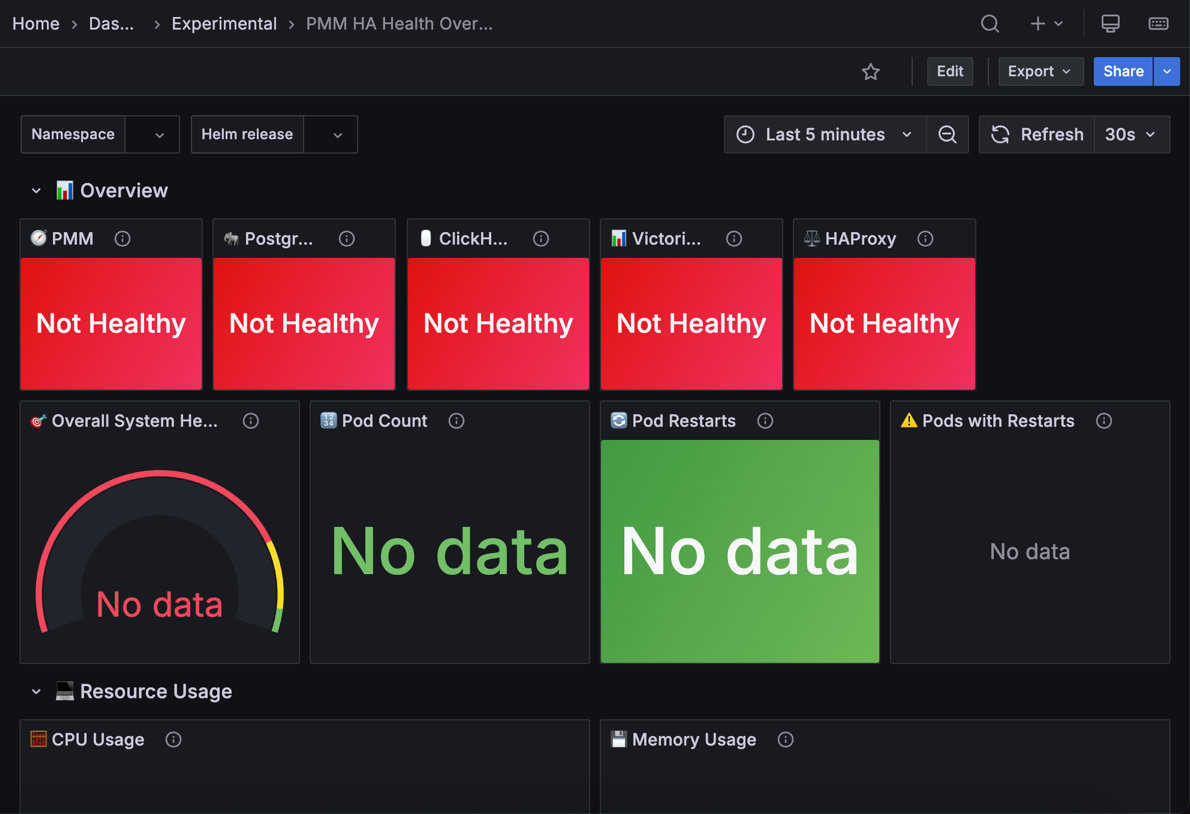
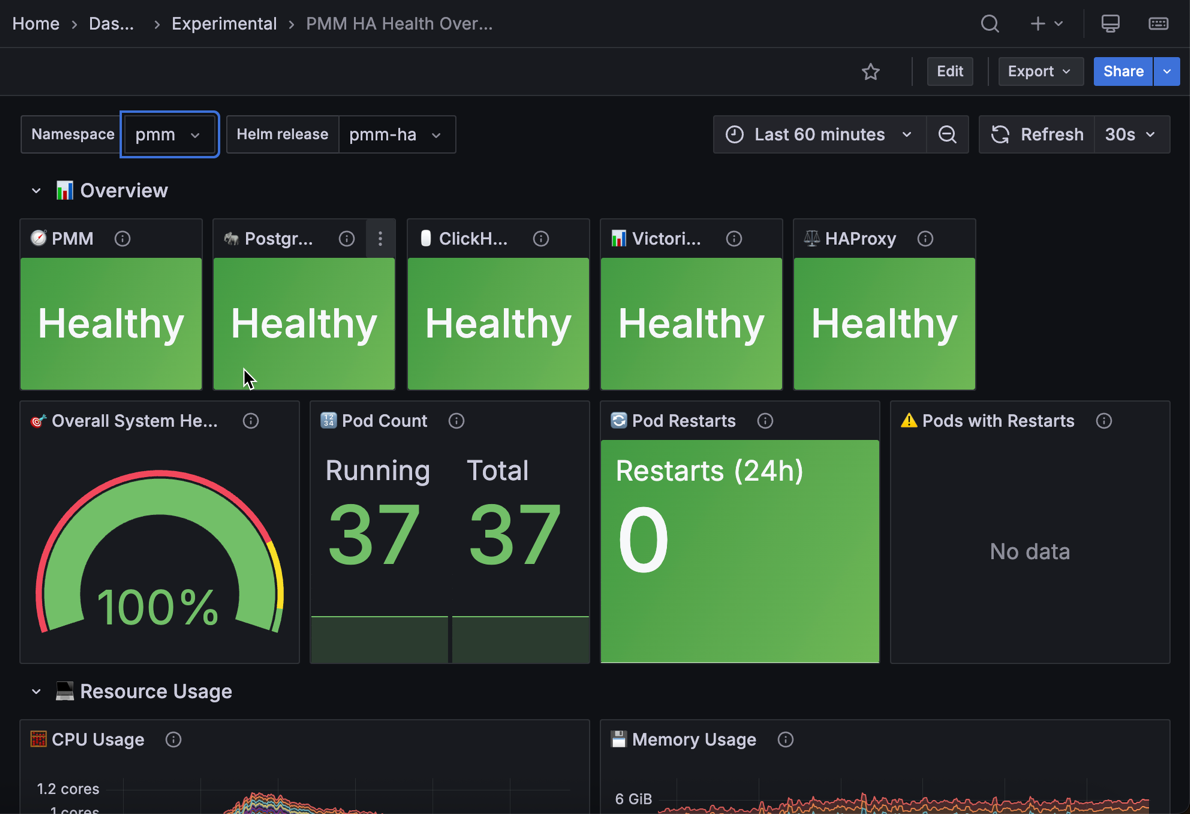
feedback from Nailya

diff --git a/documentation/docs/install-pmm/HA-clustered.md b/documentation/docs/install-pmm/HA-clustered.md
@@ -347,7 +347,7 @@ Installs monitoring infrastructure:
 
     === "Using YAML file"
 
-        Create `pmm-secret.yaml`:
+        1. Create `pmm-secret.yaml`:
 
         ```yaml
         apiVersion: v1
@@ -366,7 +366,7 @@ Installs monitoring infrastructure:
           GF_PASSWORD: "your-grafana-password"
         ```
 
-        Apply it:
+        2. Apply it:
 
         ```sh
         kubectl apply -f pmm-secret.yaml
@@ -382,35 +382,40 @@ Installs monitoring infrastructure:
 
     === "Custom configuration"
 
-        Create a `values.yaml` file:
+        Use custom configuration when you need to adjust resource limits, storage sizes, replica counts, or service types beyond the defaults.
+        
+        This approach gives you full control over your PMM HA deployment settings.
+        {.power-number}
 
-        ```yaml
-        # Example custom values
-        replicas: 3  # Number of PMM server replicas
+        1. Create a `values.yaml` file:
 
-        haproxy:
-          service:
-            type: LoadBalancer  # Change to LoadBalancer for external access
+          ```yaml
+          # Example custom values
+          replicas: 3  # Number of PMM server replicas
 
-        storage:
-          size: 100Gi  # Adjust storage size as needed
+          haproxy:
+            service:
+              type: LoadBalancer  # Change to LoadBalancer for external access
 
-        pmmResources:
-          requests:
-            cpu: "2"
-            memory: "4Gi"
-          limits:
-            cpu: "4"
-            memory: "8Gi"
-        ```
+          storage:
+            size: 100Gi  # Adjust storage size as needed
 
-        Install with custom values:
+          pmmResources:
+            requests:
+              cpu: "2"
+              memory: "4Gi"
+            limits:
+              cpu: "4"
+              memory: "8Gi"
+          ```
 
-        ```sh
-        helm install pmm-ha percona/pmm-ha --namespace pmm -f values.yaml
-        ```
+       2. Install with custom values:
 
-        ### Step 6: Verify installation
+          ```sh
+          helm install pmm-ha percona/pmm-ha --namespace pmm -f values.yaml
+          ```
+
+    ### Step 6: Verify installation
 
         ```sh
         # Check PMM server pods

diff --git a/documentation/docs/install-pmm/HA-docker.md b/documentation/docs/install-pmm/HA-docker.md
@@ -89,7 +89,6 @@ docker run -d \
   --name pmm-server \
   --restart=always \
   -p 443:8443/tcp \
-  -p 80:80/tcp \
   -v pmm-data:/srv \
   -e DISABLE_UPDATES=true \
   -e DISABLE_TELEMETRY=true \
@@ -101,7 +100,6 @@ docker run -d \
 
 - `--restart=always`: Ensures automatic container restart after failures or reboots
 - `-p 443:8443`: Exposes HTTPS port for secure web access
-- `-p 80:80`: Exposes HTTP port (automatically redirects to HTTPS)
 - `-v pmm-data:/srv`: Persists PMM data across container restarts
 - `-e DISABLE_UPDATES=true`: Disables automatic PMM updates (control updates manually)
 - `--ulimit=nofile=1000000:1000000`: Increases file descriptor limit for large deployments
@@ -119,7 +117,6 @@ services:
     restart: always
     ports:
       - "443:8443"
-      - "80:80"
     volumes:
       - pmm-data:/srv
     environment:
